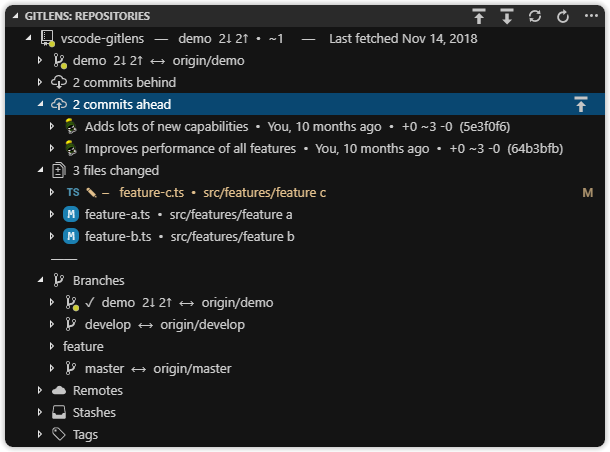
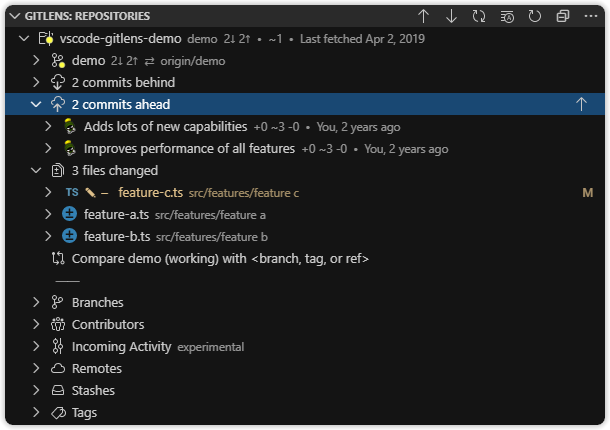
Adds git commands image/section in README Updates images in README

diff --git a/README.md b/README.md
@@ -504,10 +504,6 @@ The compare view provides the following features,
 
 - Adds a _Show Last Opened Quick Pick_ command (`gitlens.showLastQuickPick`) with a shortcut of `alt+-` to quickly get back to where you were when the last GitLens quick pick menu closed
 
-- Adds a _Git Commands_ command (`gitlens.gitCommands`) to provide a guided (step-by-step) access to common Git commands (and their flags)
-
-  - Quickly navigate and execute Git commands through easy-to-use menus where each command requires an explicit confirm step before executing
-
 - Adds commands to Open files, commits, branches, and the repository on the supported remote services, **Bitbucket, GitHub, GitLab, and Azure DevOps** or a [**user-defined** remote services](#custom-remotes-settings 'Jump to Custom Remotes settings') &mdash; only available if a Git upstream service is configured in the repository
   - Also supports [remote services with custom domains](#custom-remotes-settings 'Jump to Custom Remotes settings'), such as **Bitbucket, Bitbucket Server (previously called Stash), GitHub, GitHub Enterprise, GitLab**
   - _Open Branches on Remote_ command (`gitlens.openBranchesInRemote`) &mdash; opens the branches on the supported remote service
@@ -515,6 +511,15 @@ The compare view provides the following features,
   - _Open Commit on Remote_ command (`gitlens.openCommitInRemote`) &mdash; opens the commit revision of the current line on the supported remote service
   - _Open File on Remote_ command (`gitlens.openFileInRemote`) &mdash; opens the current file/revision on the supported remote service
   - _Open Repository on Remote_ command (`gitlens.openRepoInRemote`) &mdash; opens the repository on the supported remote service
+
+#### Git Commands
+
+<p align="center">
+  <img src="https://raw.githubusercontent.com/eamodio/vscode-gitlens/master/images/docs/menu-git-commands.png" alt="Git Commands Quick Pick Menu" />
+</p>
+
+- Adds a _Git Commands_ command (`gitlens.gitCommands`) to provide guided (step-by-step) access to common Git commands and their flags
+  - Quickly navigate and execute Git commands through easy-to-use menus where each command requires an explicit confirm step before executing
 
 #### Branch History
 
